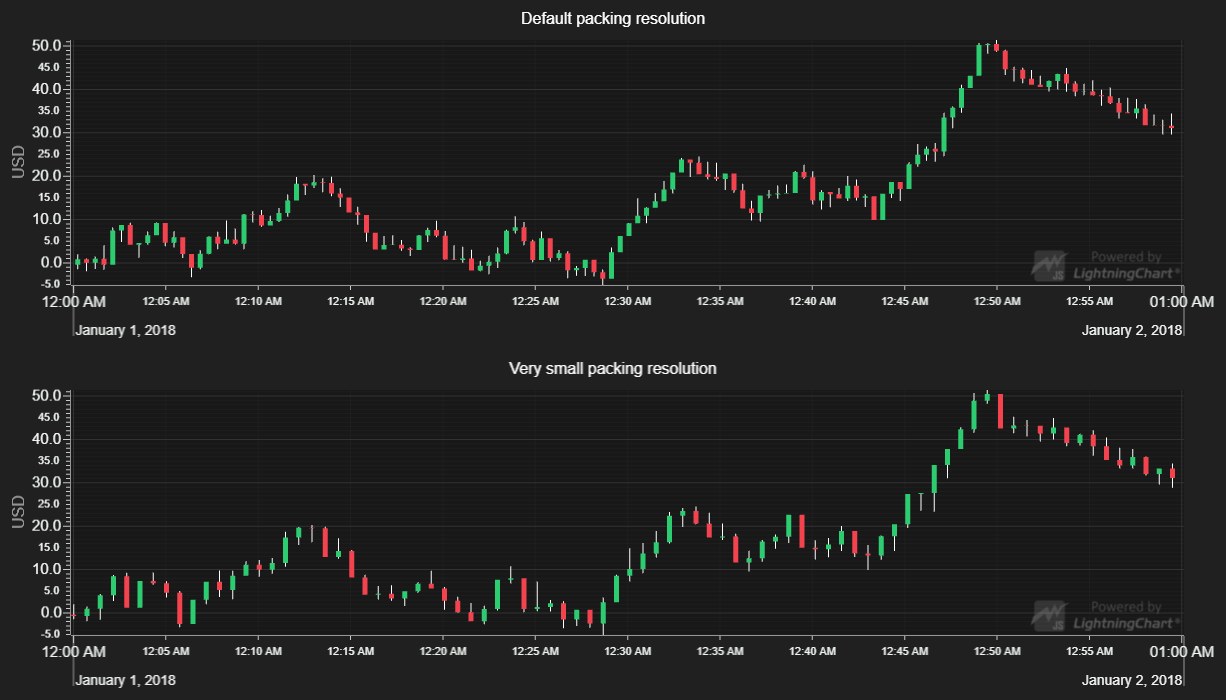
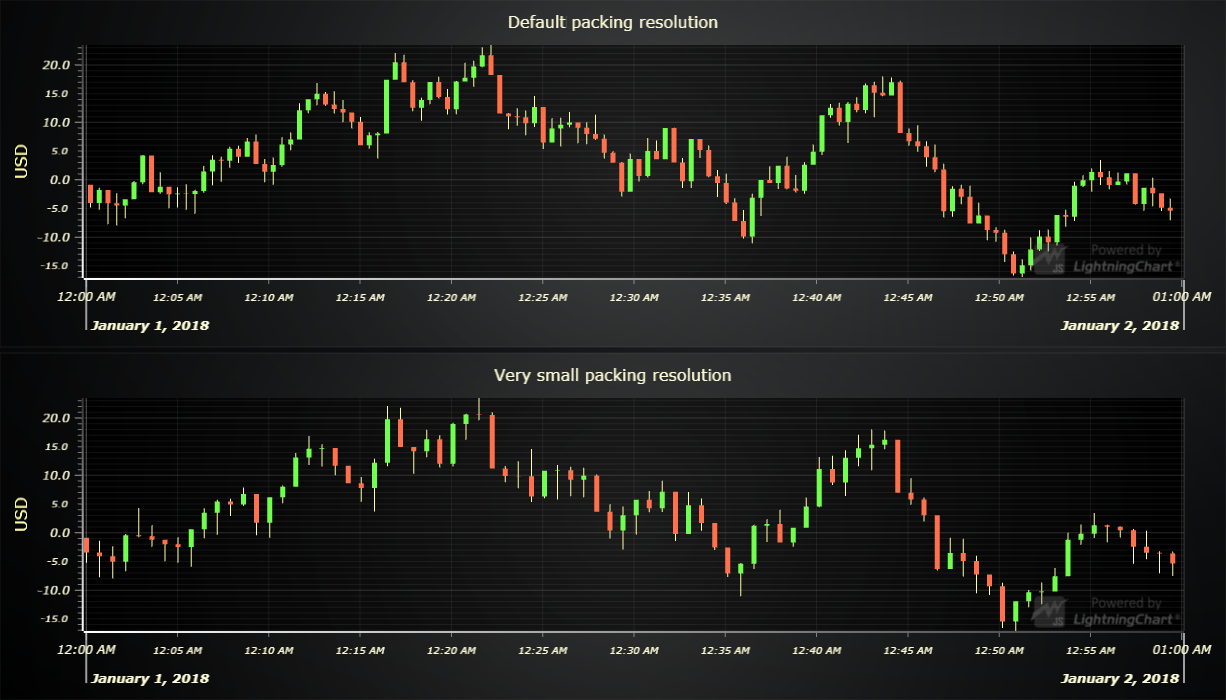
Update LCJS version

diff --git a/src/index.js b/src/index.js
@@ -18,32 +18,17 @@ const {
     createProgressiveTraceGenerator
 } = require('@arction/xydata')
 
-const container = document.createElement('div')
-container.id = 'lcjs-chart-container'
-container.style.display = 'flex'
-container.style.flexDirection = 'column'
-container.style.height = '100%'
-
-const div1 = document.createElement('div')
-div1.id = 'div1'
-div1.style.height = '100%'
-container.appendChild(div1)
-const div2 = document.createElement('div')
-div2.id = 'div2'
-div2.style.height = '100%'
-container.appendChild(div2)
-document.body.appendChild(container)
-
 const dataSpan = 60 * 60 * 1000
 const dataFrequency = 1 * 1000
 
 // Decide on an origin for DateTime axis.
 const dateOrigin = new Date(2018, 0, 1)
 // Create charts and series for two different packing resolutions.
-const lc = lightningChart()
-const chartDefault = lc.ChartXY({
-    container: 'div1',
-    // theme: Themes.dark
+const dashboard = lightningChart().Dashboard({numberOfColumns: 1, numberOfRows: 2})
+const chartDefault = dashboard.createChartXY({
+    columnIndex: 0,
+    rowIndex: 0,
+    // theme: Themes.darkGold
 })
 // Use DateTime TickStrategy with custom origin date.
 chartDefault
@@ -68,9 +53,10 @@ chartDefault.setPadding({
 chartDefault.getDefaultAxisY()
     .setTitle('USD')
 
-const chartLow = lc.ChartXY({
-    container: div2,
-    // theme: Themes.dark
+const chartLow = dashboard.createChartXY({
+    columnIndex: 0,
+    rowIndex: 1,
+    // theme: Themes.darkGold
 })
 // Use DateTime TickStrategy with custom origin date.
 chartLow

diff --git a/webpack.config.js b/webpack.config.js
@@ -69,7 +69,8 @@ module.exports = {
         }),
         new CopyWebpackPlugin({
             patterns: [
-                { from: './assets/**/*', to: './examples/assets', flatten: true, noErrorOnMissing: true }
+                { from: './assets/**/*', to: './examples/assets', flatten: true, noErrorOnMissing: true },
+                { from: './node_modules/@arction/lcjs/dist/resources', to: 'resources', noErrorOnMissing: true },
             ]
         })
     ]

diff --git a/README.md b/README.md
@@ -62,9 +62,9 @@ Direct developer email support can be purchased through a [Support Plan][4] or b
 © Arction Ltd 2009-2020. All rights reserved.
 
 
-[Axis tick strategies]: https://www.arction.com/lightningchart-js-api-documentation/v3.0.1/globals.html#axistickstrategies
-[XY cartesian chart]: https://www.arction.com/lightningchart-js-api-documentation/v3.0.1/classes/chartxy.html
-[OHLC series types]: https://www.arction.com/lightningchart-js-api-documentation/v3.0.1/globals.html#ohlcseriestypes
-[Series with automatic packing]: https://www.arction.com/lightningchart-js-api-documentation/v3.0.1/classes/ohlcserieswithautomaticpacking.html
+[Axis tick strategies]: https://www.arction.com/lightningchart-js-api-documentation/v3.1.0/globals.html#axistickstrategies
+[XY cartesian chart]: https://www.arction.com/lightningchart-js-api-documentation/v3.1.0/classes/chartxy.html
+[OHLC series types]: https://www.arction.com/lightningchart-js-api-documentation/v3.1.0/globals.html#ohlcseriestypes
+[Series with automatic packing]: https://www.arction.com/lightningchart-js-api-documentation/v3.1.0/classes/ohlcserieswithautomaticpacking.html
 [Progressive trace generator]: https://arction.github.io/xydata/classes/progressivetracegenerator.html
 
